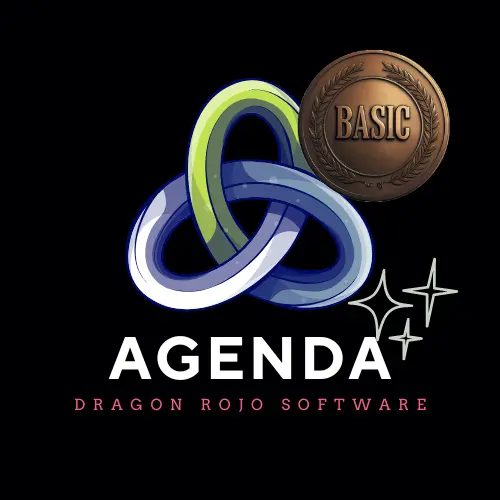
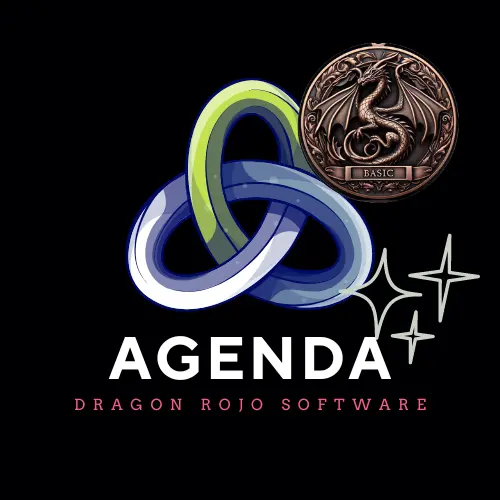
FinalA

Changed region(s): [[0.6, 0.06, 0.93, 0.42], [0.66, 0.48, 0.96, 0.72]]

diff --git a/public/css/styles.css b/public/css/styles.css
@@ -92,7 +92,7 @@ html {
 header ul a {
     text-decoration: none;
     padding-right: 2rem;
-    color: brown;
+    color: var(--color-AirBlue);
     font-size: 1.5rem;
 }
 
@@ -214,7 +214,7 @@ header ul a {
 .dashboard-menu div {
     display: flex;
     justify-content: center;
-    background: linear-gradient(to bottom right, #C2E150, #506017);
+    background: linear-gradient(to bottom right, white, black);
     clip-path: polygon(10% 0%, 100% 0%, 90% 100%, 0% 100%);
     border-radius: 2rem;
     color: #000000;
@@ -908,7 +908,7 @@ header ul a {
 
 .PlanValor {
     font-size: 1.2em;
-    color: #2a9d8f;
+    color: brown;
     font-weight: bold;
     margin-top: 1rem;
 }

diff --git a/resources/views/planes/suscripcionUser.blade.php b/resources/views/planes/suscripcionUser.blade.php
@@ -17,7 +17,7 @@
         <div class="planColumn">
             <div class="PlanImage">
                 <img src="{{$plan->image}}" alt="">
-                <p class="planTitle">{{$plan->nombre}}</p>
+                <p class="planTitle"><i class="fa-brands fa-d-and-d"></i> {{$plan->nombre}}</p>
             </div>
             <div class="PlanDescripcion">
                 <p>{!! $plan->descripcion !!}</p>

diff --git a/resources/views/dashboard/main.blade.php b/resources/views/dashboard/main.blade.php
@@ -38,7 +38,7 @@
         </a>
         <a href="{{ route('suscripcion') }}">
             <div>
-                <h1>Suscripción</h1>
+                <h1><i class="fa-brands fa-d-and-d"></i> Suscripción</h1>
             </div>
         </a>
         <a href="{{ route('config') }}">
